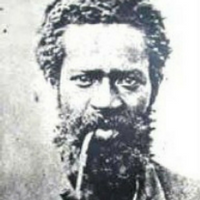
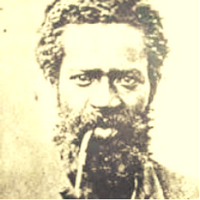
Fix profile pics
Change black and white images with sepia filters.
Added thumbnail folder
Modified the url to facebook
Added two testing thumbnail

diff --git a/index.html b/index.html
@@ -9,7 +9,7 @@
   
   <meta property="og:title"              content="Personajes Dominicanos" />
   <meta property="og:description"        content="Esta web esta dedicada a todos los Dominicanos y latinoamericanos que de alguna manera u otra han transcendido en la historia de Republica Dominicana y han sido de inspiracion para muchos." />
-  <meta property="og:image"              content="https://raw.githubusercontent.com/gilalexandel/PersonajesDominicanos/master/media/pd-miniatura.png" />
+  <meta property="og:image"              content="https://raw.githubusercontent.com/gilalexandel/PersonajesDominicanos/master/media/thumbnail/pd-miniatura.png" />
   
 
   <!-- Bootstrap CSS -->
@@ -55,7 +55,7 @@
           <a class="text-center d-block" href="bio/Juan_Pablo_Duarte.html"><img src="./media/profile/duarte.png" class="hvr-grow-shadow  rounded-circle mx-auto d-block imgProfile" alt="Juan Pablo Duarte">Juan Pablo Duarte</a>
         </div>
         <div class="col-xl-2 col-lg-2 col-md-3 col-sm-3 col">
-          <a class="text-center d-block" href="bio/Juana_Saltitopa.html"><img src="./media/profile/juana.png" class=" hvr-grow-shadow rounded-circle mx-auto d-block imgProfile" alt="Olivorio Mateo">Juana Saltitopa</a>
+          <a  class="text-center d-block" href="bio/Juana_Saltitopa.html"><img  src="./media/profile/juana.png" class="hvr-grow-shadow rounded-circle mx-auto d-block imgProfile" alt="Juana Saltitopa">Juana Saltitopa</a>
         </div>
       </div>
       <br>
@@ -184,7 +184,8 @@
     
     <div class="container">
       <p class="float-right">
-        <a href="#">Volver arriba</a>
+        <!-- <a href="#" id="upbtn">Volver arriba</a> -->
+        <a href="#" rel="" id="anchor1" class="anchorLink">Volver arriba</a>
       </p>
       <p>Proyecto de Pasantía realizado en el GCPS</p>
       

diff --git a/bio/Juan_Bosh.html b/bio/Juan_Bosh.html
@@ -4,11 +4,11 @@
     <!-- Required meta tags -->
     <meta charset="utf-8">
     <meta name="viewport" content="width=device-width, initial-scale=1, shrink-to-fit=no">
-    <meta property="og:url"                content="https://gilalexandel.github.io/PersonajesDominicanos/pages/liborio.html" />
+    <meta property="og:url"                content="https://gilalexandel.github.io/PersonajesDominicanos/bio/Juan_Bosh.html" />
     
     <meta property="og:title"              content="Biografia de Juan Bosh " />
     <meta property="og:description"        content="Juan Emilio Bosch Gaviño (La Vega, 30 de junio de 1909 – Santo Domingo, 1 de noviembre de 2001)" />
-    <meta property="og:image"              content="https://raw.githubusercontent.com/gilalexandel/PersonajesDominicanos/master/media/profile/bannerolivorio.png" />
+    <meta property="og:image"              content="https://raw.githubusercontent.com/gilalexandel/PersonajesDominicanos/master/media/thumbnail/bosh-mini.png" />
 
     <!-- Bootstrap CSS -->
     <link rel="stylesheet" href="https://maxcdn.bootstrapcdn.com/bootstrap/4.0.0-beta/css/bootstrap.min.css" integrity="sha384-/Y6pD6FV/Vv2HJnA6t+vslU6fwYXjCFtcEpHbNJ0lyAFsXTsjBbfaDjzALeQsN6M" crossorigin="anonymous">

diff --git a/js/index.js b/js/index.js
@@ -8,12 +8,12 @@ $( document ).ready(function() {
         window.open("https://twitter.com/intent/tweet?text=" + "Biografía de " +title + " "+url);
       });
       $("#btnFB").click(function() {
-       /*  window.open("http://www.facebook.com/share.php?u=[URL]&title=[TITLE]"); */
-        window.open("http://www.facebook.com/share.php?u=https://gilalexandel.github.io/PersonajesDominicanos/pages/liborio.html");
+        window.open("http://www.facebook.com/share.php?u="+url+""); 
+        /* window.open("http://www.facebook.com/share.php?u=https://gilalexandel.github.io/PersonajesDominicanos/pages/liborio.html"); */
       });
 
     //Function to get bio from json file
-    function getbio(){
+    /* function getbio(){
 
       var bio = "../content/bio.json";
       
@@ -25,7 +25,7 @@ $( document ).ready(function() {
       });
       
     }
-    getbio();
+    getbio(); */
     
     //Back to top btn 
     if ($('#back-to-top').length) {
@@ -49,4 +49,6 @@ $( document ).ready(function() {
           }, 700);
       });
   }
+  
 });
+  

diff --git a/bio/José_Núñez_de_Cáceres.html b/bio/José_Núñez_de_Cáceres.html
@@ -123,9 +123,9 @@
             <br>
             <h5>Fuentes</h5>
             <ul>
-              <a href="https://es.wikipedia.org/wiki/Jos%C3%A9_N%C3%BA%C3%B1ez_de_C%C3%A1ceres"><li>https://es.wikipedia.org/wiki/Jos%C3%A9_N%C3%BA%C3%B1ez_de_C%C3%A1ceres</li></a>
-              <a href="http://www.jmarcano.com/mipais/biografia/jnunezc.html"><li>http://www.jmarcano.com/mipais/biografia/jnunezc.html</li></a>
-              <a href="http://www.venezuelatuya.com/biografias/josecaceres.htm"><li>http://www.venezuelatuya.com/biografias/josecaceres.htm</li></a>
+              <a href="https://es.wikipedia.org/wiki/Jos%C3%A9_N%C3%BA%C3%B1ez_de_C%C3%A1ceres"><li><i>José Nuñez de Cáceres Wiki</i></li></a>
+              <a href="http://www.jmarcano.com/mipais/biografia/jnunezc.html"><li><i>Biografia José Nuñez</i></li></a>
+              <a href="http://www.venezuelatuya.com/biografias/josecaceres.htm"><li><i>José Cáceres Bio</i></li></a>
             </ul>
             <br>
                 

diff --git a/bio/Papá_Liborio.html b/bio/Papá_Liborio.html
@@ -144,8 +144,8 @@
             <br>
             <h5>Fuentes</h5>
             <ul>
-              <a href="https://es.wikipedia.org/wiki/Pap%C3%A1_Liborio"><li>Papá Liborio Wiki</li></a>
-              <a href="http://noticiaspop.com.do/edu/olivorio-mateo-papa-liborio/"><li>Olivorio Mateo</li></a>
+              <a href="https://es.wikipedia.org/wiki/Pap%C3%A1_Liborio"><li><i>Papá Liborio Wiki</i></li></a>
+              <a href="http://noticiaspop.com.do/edu/olivorio-mateo-papa-liborio/"><li><i>Olivorio Mateo</i></li></a>
             </ul>
             <br>
                 

diff --git a/css/frontPage.css b/css/frontPage.css
@@ -63,3 +63,4 @@ a:hover {
 #authorsGrid a img:hover {
     -webkit-filter: none; /*Returns to default state*/
 }
+
